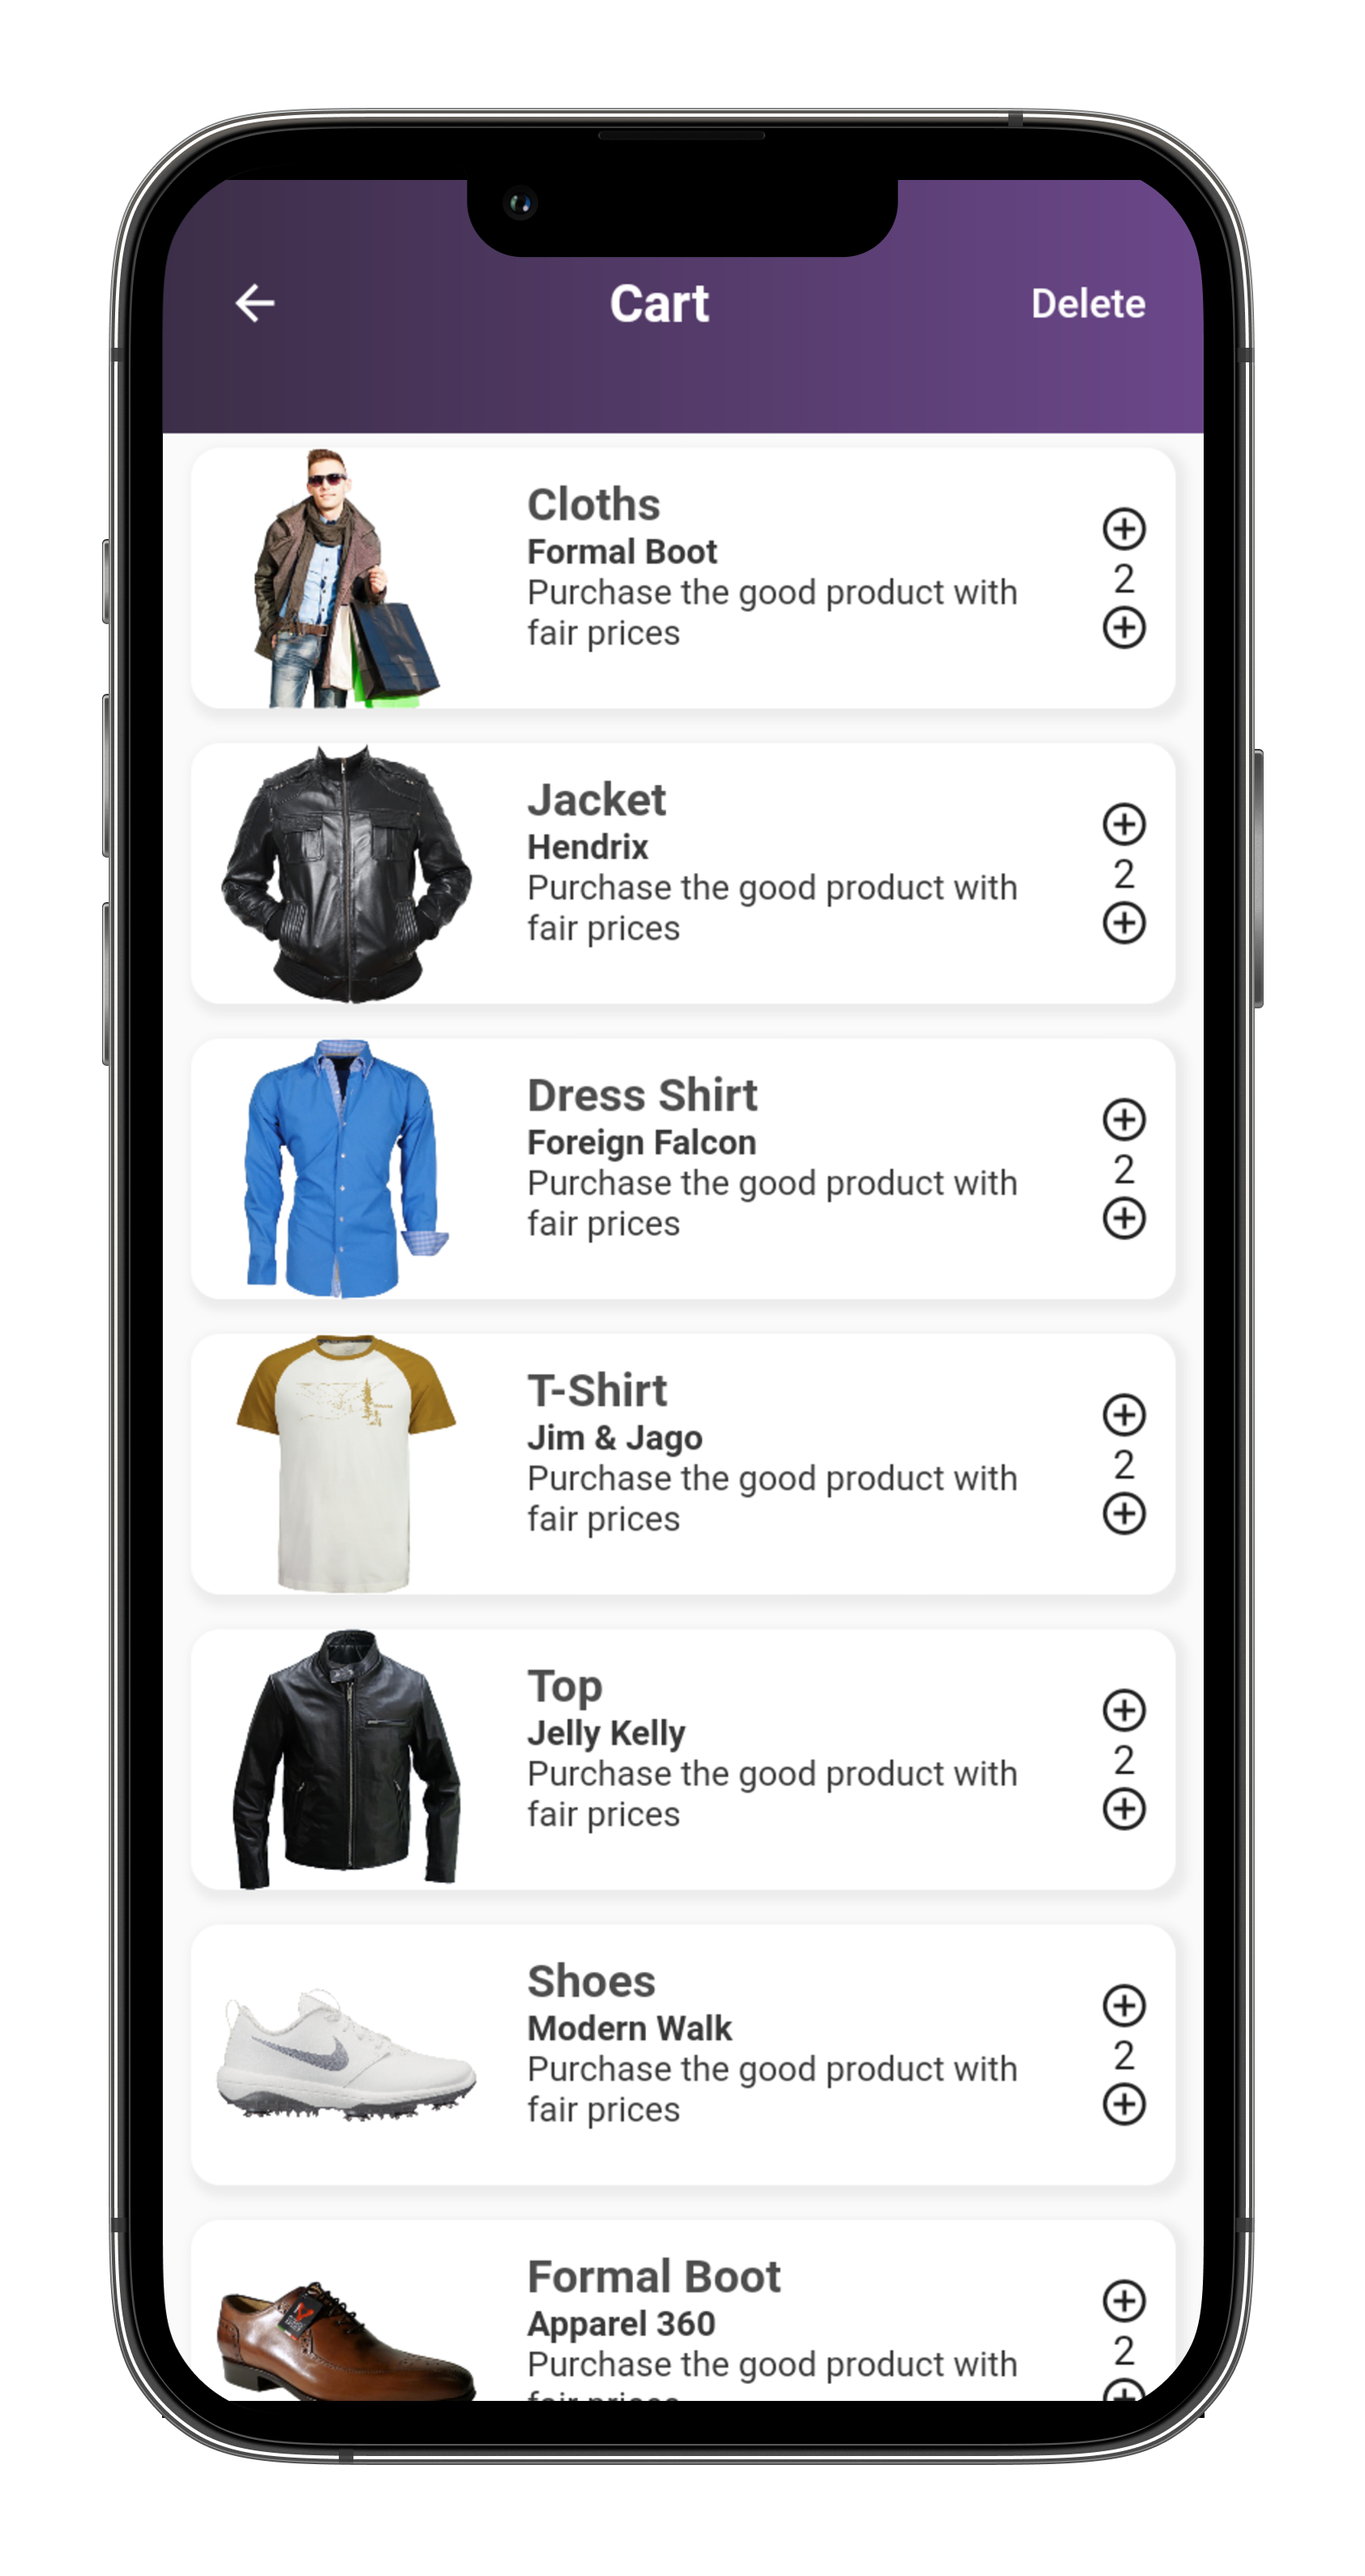
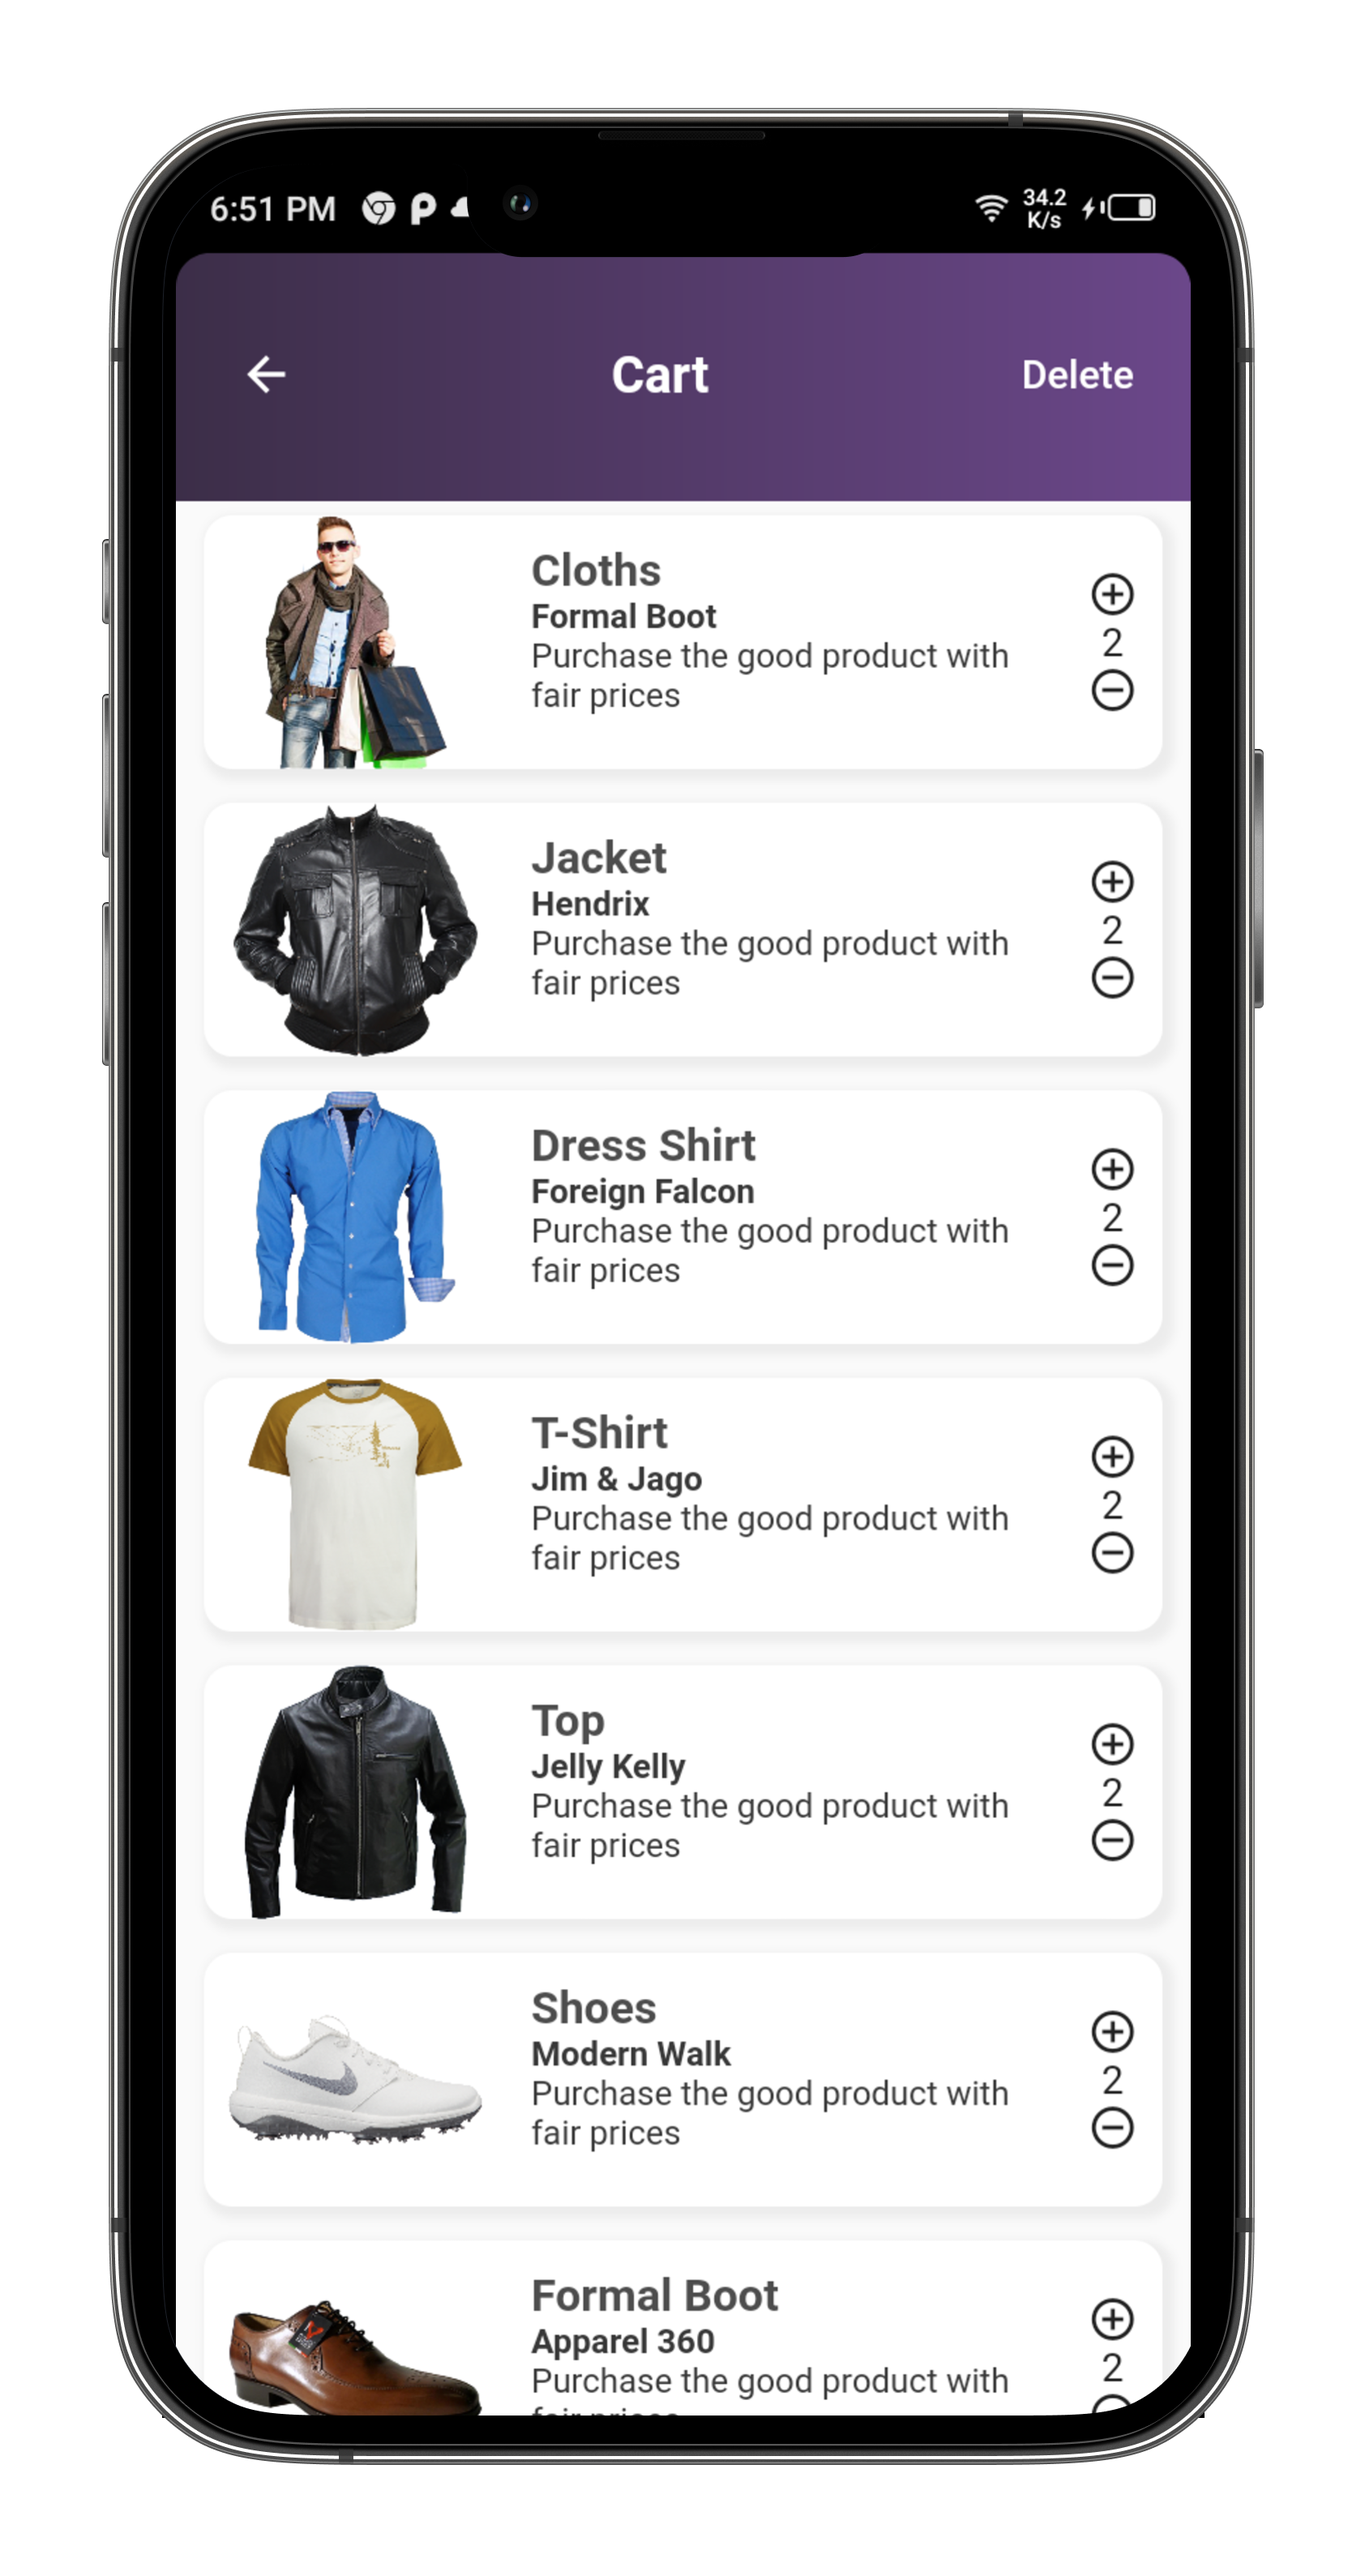
added another image

diff --git a/lib/screens/cart_screen.dart b/lib/screens/cart_screen.dart
@@ -161,7 +161,7 @@ class CartScreenState extends State<CartScreen> {
                     InkWell(
                       onTap: () {},
                       child: Icon(
-                        Icons.add_circle_outline,
+                        Icons.remove_circle_outline,
                         size: 18,
                       ),
                     ),
